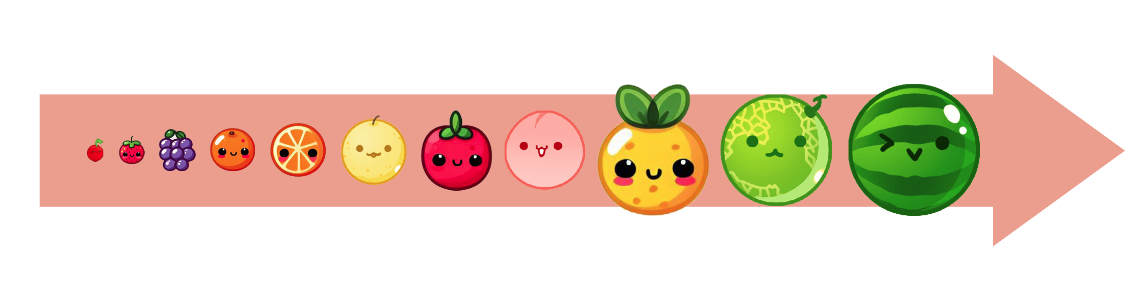
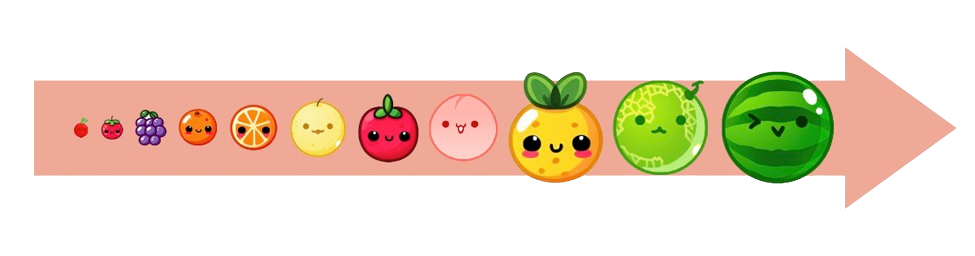
Add game score and Update CSS to view body

diff --git a/main.js b/main.js
@@ -30,7 +30,7 @@ const ground = Bodies.rectangle(310, 820, 620, 60, {
   render: { fillStyle: '#faa5bd' },
 })
 
-const topLine = Bodies.rectangle(310, 150, 620, 2, {
+const topLine = Bodies.rectangle(310, 150, 620, 3, {
   name: 'topLine',
   isStatic: true,
   isSensor: true,
@@ -46,13 +46,14 @@ let currentBody = null
 let currentFruit = null
 let disableAction = false
 let interval = null
-let num_fruit = 0
+// let num_fruit = 0
+let score = 0
+const scoreElement = document.getElementById('score')
 
 function addFruit() {
   const index = Math.floor(Math.random() * 5)
   const fruit = FRUITS[index]
 
-  console.log(fruit)
   const body = Bodies.circle(300, 50, fruit.radius, {
     index: index,
     isSleeping: true,
@@ -80,7 +81,7 @@ window.onkeydown = (event) => {
       interval = setInterval(() => {
         if (currentBody.position.x - currentFruit.radius > 30)
           Body.setPosition(currentBody, {
-            x: currentBody.position.x - 2,
+            x: currentBody.position.x - 1.5,
             y: currentBody.position.y,
           })
       }, 5)
@@ -92,7 +93,7 @@ window.onkeydown = (event) => {
       interval = setInterval(() => {
         if (currentBody.position.x + currentFruit.radius < 590)
           Body.setPosition(currentBody, {
-            x: currentBody.position.x + 2,
+            x: currentBody.position.x + 1.5,
             y: currentBody.position.y,
           })
       }, 5)
@@ -141,8 +142,10 @@ Events.on(engine, 'collisionStart', (event) => {
       )
       World.add(world, newBody)
 
-      // if ()
-      num_fruit++
+      score++
+      updateScore()
+
+      // num_fruit++
     }
 
     if (
@@ -152,5 +155,9 @@ Events.on(engine, 'collisionStart', (event) => {
       alert('GAME OVER')
   })
 })
+
+function updateScore() {
+  scoreElement.textContent = 'Score: ' + score
+}
 
 addFruit()

diff --git a/index.html b/index.html
@@ -3,20 +3,18 @@
   <head>
     <meta charset="UTF-8" />
     <meta name="viewport" content="width=device-width, initial-scale=1.0" />
+    <link href="/style.css" rel="stylesheet" />
+
     <title>Sum Game</title>
-    <style>
-      body {
-        text-align: center;
-      }
-      .order {
-        width: 50%;
-      }
-    </style>
   </head>
   <body>
     <h1>Welcome Sum Game</h1>
-    <div id="app"></div>
-    <img class="order" src="./order.png" alt="order" />
+
+    <div id="app">
+      <div id="score">Score: 0</div>
+      <img class="order" src="./order.png" alt="order" />
+    </div>
+
     <script type="module" src="/main.js"></script>
   </body>
 </html>

diff --git a/style.css b/style.css
@@ -4,8 +4,6 @@
   font-weight: 400;
 
   color-scheme: light dark;
-  color: rgba(255, 255, 255, 0.87);
-  background-color: #242424;
 
   font-synthesis: none;
   text-rendering: optimizeLegibility;
@@ -14,6 +12,24 @@
   -webkit-text-size-adjust: 100%;
 }
 
+body {
+  text-align: center;
+  position: absolute;
+
+  max-width: 660px;
+
+  width: 100%;
+  height: 100%;
+}
+
+#score {
+  position: absolute;
+  margin-top: 810px;
+  margin-left: 30px;
+}
+
 img {
-  width: 200px;
+  width: 300px;
+  position: absolute;
+  margin-top: 780px;
 }
